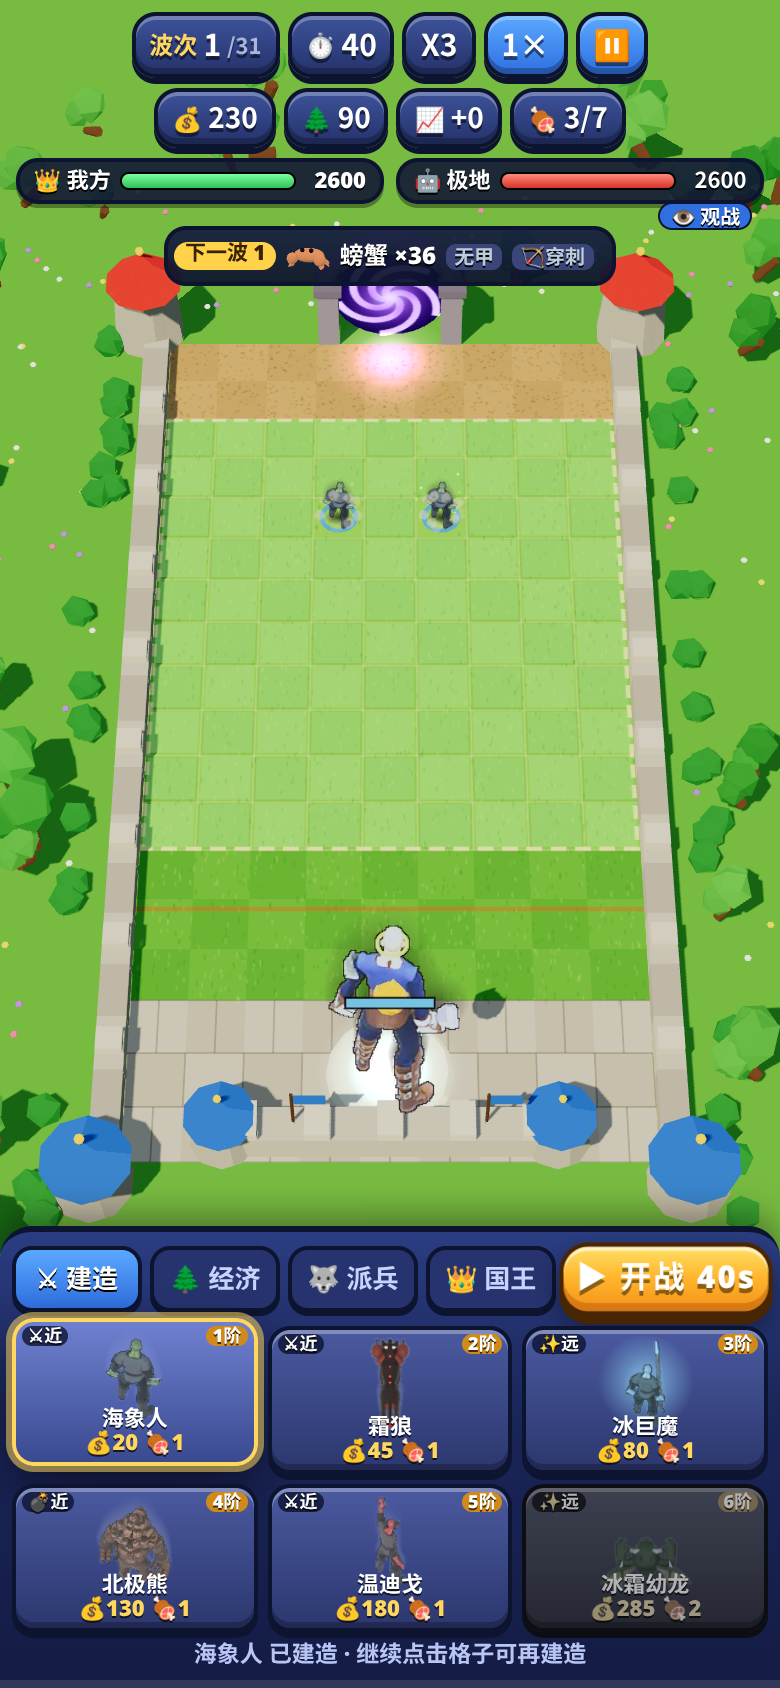
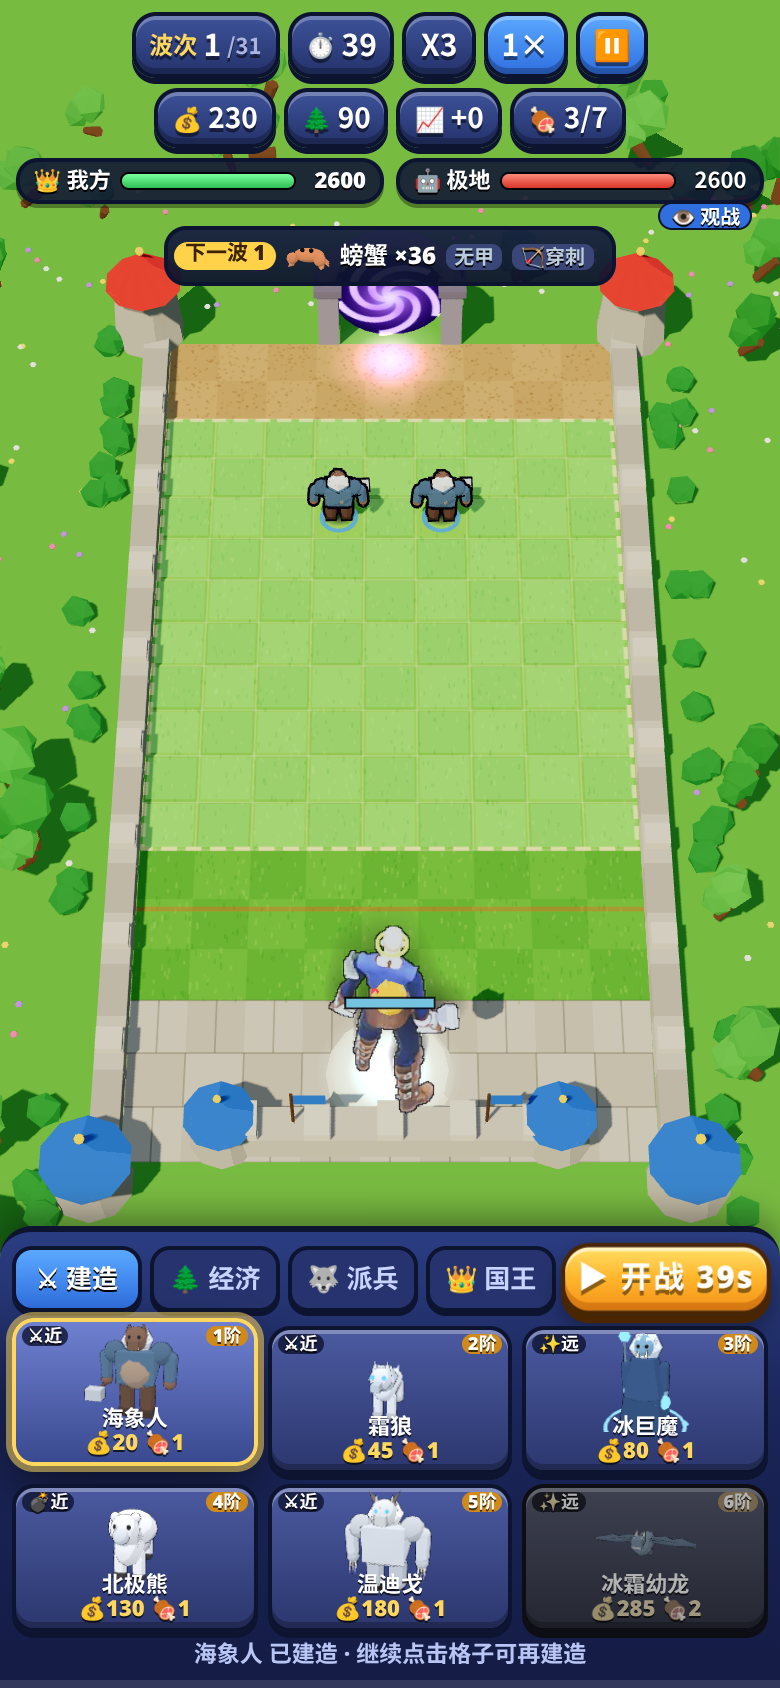
Model remake: Arctic (Tuskarr, frost wolf, pandaren, ice trolls, polar bear, magnataur, wendigos, frost dragons); smaller flyers

diff --git a/toonrecipes.js b/toonrecipes.js
@@ -28,8 +28,8 @@ R('h046',{k:0.95,h:0.95,bw:1.3,torso:'rock',head:'rock',headC:0x7a5a3a,eye:0xffb
 R('h047',{k:1.25,h:1.15,bw:1.6,torso:'rock',head:'rock',headC:0x7a7a84,eye:0x6affd0,legs:'human',arms:'rock',torsoC:0x8a8a94,legC:0x5a5a62,armC:0x7a7a84,bootC:0x4a4a52,glow:0x6affd0,atk:'slam',extras:['chest:0x6affd0','spikes:0x6affd0']});
 R('h048',{k:1.0,h:1,torso:'robe',head:'human',helm:'hood',hoodC:0x2a5ab0,legs:'human',arms:'human',torsoC:0x3a6ad8,skin:0xe8b88a,weapon:'staff',off:'orb',glow:0x6ad8ff,atk:'cast',extras:['tabard:0xd8c070']});
 R('h049',{k:1.18,h:1.1,torso:'robe',head:'human',helm:'wizard',capC:0x7a5ad8,legs:'none',floatY:0.48,lowC:0xc8c0ff,lowM:'w',arms:'human',torsoC:0xd8ccff,skin:0xffe8c8,accent:0xffd04a,weapon:'staff',off:'orb',glow:0xfff0a0,atk:'cast',extras:['beard:0xf8f8f8','tabard:0xffd04a','aura:0xfff0a0','orbit:0xffe08a']});
-R('h04A',{k:1.15,plan:'flyer',skin:0x3a2a5a,skin2:0x6a4a9a,wingC:0x2a1a40,eye:0xd06aff,crest:0xb06aff,crestM:'e',neckLen:0.8,tailLen:0.55,wingSpan:1.15,alt:0.35,atk:'bite',extras:['rings:0xb06aff']});
-R('h04B',{k:1.3,plan:'flyer',headType:'bird',skin:0xff7a2a,skin2:0xffd04a,headC:0xffa02a,wing:'bird',wingC:0xff5a1a,wingM:'e',eye:0xfff8c0,beak:0xffe080,crest:0xffe04a,crestM:'e',neckLen:0.5,tailLen:0.35,tailFan:0xffb02a,fanM:'e',wingSpan:1.3,alt:0.35,atk:'dive',trail:0xff8a2a});
+R('h04A',{k:1.0,plan:'flyer',skin:0x3a2a5a,skin2:0x6a4a9a,wingC:0x2a1a40,eye:0xd06aff,crest:0xb06aff,crestM:'e',neckLen:0.8,tailLen:0.55,wingSpan:1.15,alt:0.35,atk:'bite',extras:['rings:0xb06aff']});
+R('h04B',{k:1.1,plan:'flyer',headType:'bird',skin:0xff7a2a,skin2:0xffd04a,headC:0xffa02a,wing:'bird',wingC:0xff5a1a,wingM:'e',eye:0xfff8c0,beak:0xffe080,crest:0xffe04a,crestM:'e',neckLen:0.5,tailLen:0.35,tailFan:0xffb02a,fanM:'e',wingSpan:1.3,alt:0.35,atk:'dive',trail:0xff8a2a});
 // ===================== 幽魂 Ghost：半透明的灵体 =====================
 const GH=0x9ad8e8;
 R('h05N',{k:0.92,ghost:true,h:1,legs:'none',floatY:0.42,torso:'robe',head:'hood',hoodC:0x7ab8d0,arms:'human',torsoC:0xa8e0f0,lowC:0x8ac8e0,skin:0xd8f8ff,eye:0x6affff,weapon:'glowfist',glow:0x8affff,atk:'cast',extras:['wisps:0xbaffff']});
@@ -42,7 +42,20 @@ R('h05R',{k:1.0,ghost:true,h:1,bw:1.2,legs:'none',floatY:0.5,torso:'brute',head:
 R('h05U',{k:1.2,ghost:true,h:1.12,bw:1.35,legs:'none',floatY:0.52,torso:'brute',head:'orb',helm:'horns',hornC:0xffa08a,arms:'claw',torsoC:0xc8304a,lowC:0x8a1a3a,skin:0xff5a6a,eye:0xffe08a,atk:'cast',extras:['rings:0xff6a4a','chest:0xffd08a','spikes:0xff8a6a']});
 R('h05V',{k:1.05,ghost:true,h:1.05,bw:1.15,legs:'human',torso:'human',head:'skull',headC:0xc8e8d8,helm:'helm',metal:0x8aa8a0,arms:'human',torsoC:0x6a8a80,legC:0x4a6a62,skin:0xb8d8c8,eye:0x6affa0,weapon:'axe',wMetal:0xa8c8c0,pads:true,padC:0x8aa8a0,atk:'swing',extras:['bones','chains']});
 R('h05W',{k:1.25,ghost:true,h:1.15,bw:1.3,legs:'human',torso:'brute',head:'skull',headC:0xb0f0e0,helm:'horns',hornC:0x2a6a5a,arms:'human',torsoC:0x2a8a7a,legC:0x1a6a5a,skin:0x8ae0d0,eye:0x8affe0,weapon:'trident',wMetal:0x9af0e0,pads:true,padC:0x3aa898,spikes:true,atk:'thrust',extras:['crest:0x8affe0','bones']});
-R('h05X',{k:1.05,ghost:true,plan:'flyer',skin:0x6ab8d0,skin2:0xa8e8f8,wingC:0x5aa8c8,eye:0xc8ffff,neckLen:0.5,tailLen:0.5,wingSpan:1.1,alt:0.3,rider:0x5a8aa8,atk:'dive'});
-R('h05Y',{k:1.25,ghost:true,plan:'flyer',skin:0x5a9a8a,skin2:0x9ad8c0,wingC:0x3a7a6a,eye:0xd0ff8a,crest:0xd8f0e0,neckLen:0.6,tailLen:0.6,wingSpan:1.3,alt:0.3,rider:0x3a5a52,atk:'dive',extras:['spikes:0xe8f8f0']});
+R('h05X',{k:0.85,ghost:true,plan:'flyer',skin:0x6ab8d0,skin2:0xa8e8f8,wingC:0x5aa8c8,eye:0xc8ffff,neckLen:0.5,tailLen:0.5,wingSpan:0.95,alt:0.3,rider:0x5a8aa8,atk:'dive'});
+R('h05Y',{k:1.0,ghost:true,plan:'flyer',skin:0x5a9a8a,skin2:0x9ad8c0,wingC:0x3a7a6a,eye:0xd0ff8a,crest:0xd8f0e0,neckLen:0.6,tailLen:0.6,wingSpan:1.1,alt:0.3,rider:0x3a5a52,atk:'dive',extras:['spikes:0xe8f8f0']});
 R('h05Z',{k:1.1,ghost:true,h:1.08,legs:'none',floatY:0.44,torso:'robe',head:'hood',hoodC:0x2a2a4a,arms:'human',torsoC:0x3a3a6a,lowC:0x22224a,skin:0x8a8ab8,eye:0xb06aff,weapon:'staff',off:'book',bookC:0x3a1a4a,glow:0xb06aff,wood:0x3a2a4a,atk:'cast',extras:['halo:0xb06aff','wisps:0xc08aff']});
 R('h060',{k:1.35,ghost:true,h:1.2,bw:1.4,legs:'hoof',torso:'brute',head:'beast',headC:0x9ae0ff,helm:'horns',hornC:0xe0f8ff,arms:'human',torsoC:0x7ac8f0,legC:0x5aa8d8,skin:0x9ad8ff,eye:0xffffff,weapon:'staff',glow:0xe0ffff,wood:0x6aa8c8,atk:'cast',extras:['aura:0xc0f0ff','orbit:0xe0ffff','mane:0xc8f0ff']});
+// ===================== 极地 Arctic：海象人、冰巨魔、霜狼、温迪戈、蓝龙 =====================
+R('h0BC',{k:1.05,h:0.95,bw:1.3,torso:'brute',head:'beast',headC:0x8a6a5a,skin:0x8a6a5a,torsoC:0x5a7a9a,legC:0x6a5040,sleeve:0x5a7a9a,handC:0x8a6a5a,bootC:0x4a3a30,eye:0x2a2a2a,weapon:'hammer',wood:0x6a5040,atk:'slam',extras:['tusks','belly:0xb09a88','mane:0xe8eef8']});
+R('h0BD',{k:1.1,h:0.98,bw:1.25,torso:'brute',head:'beast',headC:0x7a5a4a,skin:0x7a5a4a,torsoC:0x4a6a8a,legC:0x5a4030,sleeve:0x4a6a8a,handC:0x7a5a4a,bootC:0x3a2a20,eye:0x2a2a2a,weapon:'spear',wMetal:0xbaf0ff,glow:0x9ae8ff,atk:'thrust',extras:['tusks','belly:0xa08a78','mane:0xe8eef8','quiver:0x6a5040']});
+R('h0BE',{k:0.95,plan:'quad',skin:0xe8eef8,skin2:0xc8d4e0,headType:'wolf',eye:0x6ad8ff,mane:true,maneC:0xd0dce8,legLen:0.28,bodyLen:0.6,tailLen:0.35,tailW:1.6,claws:true,atk:'bite',extras:['aura:0x9ae8ff']});
+R('h0BG',{k:1.05,h:1.0,bw:1.4,torso:'brute',head:'beast',headC:0xf0f0f0,skin:0xf0f0f0,torsoC:0x2a2a2a,legC:0x2a2a2a,sleeve:0x2a2a2a,handC:0x2a2a2a,bootC:0x1a1a1a,eye:0x2a2a2a,weapon:'staff',wood:0x8a5a2a,glow:0x9ae8ff,atk:'slam',extras:['belly:0xf4f4f4','tabard:0xc83a2a']});
+R('h0BH',{k:1.0,h:1.05,torso:'robe',head:'default',skin:0x8ab8d8,torsoC:0x3a5a8a,legC:0x2a4a6a,hair:0xe8f4ff,eye:0xff4a4a,weapon:'staff',off:'orb',wood:0x6a8aa8,glow:0x9af0ff,atk:'cast',extras:['tusks','mane:0xe8f4ff','aura:0x9ae8ff']});
+R('h0BI',{k:1.12,h:1.1,torso:'robe',head:'default',helm:'horns',hornC:0xe8e0d0,skin:0x7aa8d0,torsoC:0x5a3a7a,legC:0x3a2a5a,eye:0x6affff,weapon:'staff',off:'orb',wood:0xd8d0c0,glow:0x6affff,atk:'cast',extras:['tusks','bones','mane:0xe8f4ff','orbit:0x9af0ff','aura:0x6ad8ff']});
+R('h0BJ',{k:1.1,plan:'quad',skin:0xf4f6fa,skin2:0xe0e6ee,headType:'bear',eye:0x2a2a2a,pawC:0x3a3a3a,legLen:0.3,bodyLen:0.72,bodyH:0.34,bw:1.25,tailLen:0.08,claws:true,hump:true,atk:'claw',extras:['aura:0xbaf0ff']});
+R('h0BK',{k:1.18,plan:'quad',skin:0x4a6aa8,skin2:0x3a5a90,headType:'boar',eye:0xffe04a,legLen:0.34,bodyLen:0.72,bodyH:0.36,bw:1.3,tusks:true,hump:true,mane:true,maneC:0xe8eef8,tailLen:0.12,rider:0x4a6aa8,riderSkin:0x5a7ab8,atk:'slam',extras:['aura:0x9ae8ff']});
+R('h0BM',{k:1.05,h:1.05,bw:1.3,torso:'brute',head:'beast',headC:0xe8ecf0,helm:'horns',hornC:0x8a7a6a,skin:0xe8ecf0,torsoC:0xdce2ea,legC:0xc8d0da,sleeve:0xdce2ea,handC:0xc8d0da,legs:'hoof',arms:'claw',eye:0x6ad8ff,weapon:'claws',off:'claws',atk:'claw',extras:['mane:0xffffff','tail:0xdce2ea']});
+R('h0BL',{k:1.25,h:1.15,bw:1.45,torso:'brute',head:'beast',headC:0xc8d8e8,helm:'horns',hornC:0x5a4a3a,skin:0xc8d8e8,torsoC:0xb0c4d8,legC:0x9ab0c8,sleeve:0xb0c4d8,handC:0x9ab0c8,legs:'hoof',arms:'claw',eye:0x9affff,weapon:'staff',wood:0x6a5a4a,glow:0x9affff,pads:true,padC:0x6a5a4a,spikes:true,atk:'cast',extras:['mane:0xffffff','tail:0xb0c4d8','bones','aura:0x9ae8ff','orbit:0xc8f8ff']});
+R('h0BO',{k:0.82,plan:'flyer',skin:0x5a9ae0,skin2:0xc8e8ff,wingC:0x3a7ac8,eye:0xe0ffff,neckLen:0.6,tailLen:0.4,wingSpan:0.9,alt:0.4,atk:'bite'});
+R('h0BP',{k:1.08,plan:'flyer',skin:0x2a6ad0,skin2:0xbae4ff,wingC:0x1a4aa8,eye:0xe0ffff,crest:0xbaf0ff,crestM:'e',neckLen:0.8,tailLen:0.55,wingSpan:1.15,alt:0.38,atk:'bite',extras:['spikes:0xe0f8ff','rings:0x9ae8ff'],trail:0x9ae8ff});

diff --git a/index.html b/index.html
@@ -10,9 +10,9 @@
 <link rel="manifest" href="manifest.webmanifest">
 <link rel="icon" type="image/png" href="icons/favicon-32.png">
 <link rel="apple-touch-icon" href="icons/apple-touch-icon.png">
-<link rel="stylesheet" href="style.css?v=4">
-<link rel="stylesheet" href="td.css?v=4">
-<link rel="stylesheet" href="lt.css?v=4">
+<link rel="stylesheet" href="style.css?v=5">
+<link rel="stylesheet" href="td.css?v=5">
+<link rel="stylesheet" href="lt.css?v=5">
 </head>
 <body class="td lt">
 <canvas id="cv"></canvas>
@@ -75,8 +75,8 @@
 </div>
 <div id="showTitle" class="hidden"></div>
 <script src="audio.js?v=1"></script>
-<script src="lt_core.js?v=4"></script>
+<script src="lt_core.js?v=5"></script>
 <script type="importmap">{"imports":{"three":"./lib/three.module.min.js","three/addons/":"./lib/addons/"}}</script>
-<script type="module" src="lt.js?v=4"></script>
+<script type="module" src="lt.js?v=5"></script>
 </body>
 </html>

diff --git a/lt.js b/lt.js
@@ -3,8 +3,8 @@ import * as THREE from 'three';
 import {SPR_UNITS,SPR_K,SPR_V} from './sprdata.js';
 import {MODELS,modelOf} from './models.js';
 import {ABZ as ABZ_} from './abil_zh.js';
-import {initTK,buildTK,animTK} from './toonkit.js?v=4';
-import {TKR} from './toonrecipes.js?v=4';
+import {initTK,buildTK,animTK} from './toonkit.js?v=5';
+import {TKR} from './toonrecipes.js?v=5';
 const LT=window.LT,S=SFX.S,$=id=>document.getElementById(id);
 const Q=location.search;const DEBUG=/[?&]debug/.test(Q);const SHOWCASE=(Q.match(/[?&]showcase=([^&]+)/)||[])[1];
 const W=LT.W,H=LT.H,W2=W/2,H2=H/2;const B=LT.BUILD;

diff --git a/data/model_audit.md b/data/model_audit.md
@@ -31,7 +31,7 @@
 | Demi-Human 亚人 | 13 | 1.69 | 1 | 0 |
 | Hybrid 混血 | 6 | 1.00 | 0 | 0 |
 | Marine 海洋 | 14 | 1.43 | 0 | 0 |
-| Arctic 极地 | 12 | 2.00 | 2 | 0 |
+| Arctic 极地 | 12 | 2.00 | 2 | 12 |
 | Elf 精灵 | 13 | 1.85 | 2 | 0 |
 | Goblin 地精 | 13 | 1.15 | 0 | 0 |
 | Paladin 圣骑士 | 12 | 1.25 | 0 | 0 |
@@ -96,18 +96,18 @@
 
 | id | 兵种 | WC3 模型 | 旧资源 | 旧资源符合度 | 处理 |
 |---|---|---|---|---|---|
-| h0BC | Tuskarr 海象人 | tuskar | 精灵 orc | ⚠ 部分不符 | ToonKit 程序化重做（按 WC3 轮廓/配色） |
-| h0BD | Tuskarr Spearman 海象人投矛手 | tuskarRanged | 精灵 orc | ⚠ 部分不符 | ToonKit 程序化重做（按 WC3 轮廓/配色） |
-| h0BE | Frost Wolf 霜狼 | WhiteWolf | 精灵 cerberus | ⚠ 部分不符 | ToonKit 程序化重做（按 WC3 轮廓/配色） |
-| h0BG | Pandaren 熊猫人 | FurbolgPanda | 精灵 behemoth | ⚠ 部分不符 | ToonKit 程序化重做（按 WC3 轮廓/配色） |
-| h0BH | Ice Troll 冰巨魔 | IceTrollShadowPriest | 精灵 troglodyte | ⚠ 部分不符 | ToonKit 程序化重做（按 WC3 轮廓/配色） |
-| h0BI | Ice Troll Shaman 冰巨魔萨满 | WitchDoctor | 精灵 troglodyte | ⚠ 部分不符 | ToonKit 程序化重做（按 WC3 轮廓/配色） |
-| h0BJ | Polar Bear 北极熊 | PolarBear | 精灵 behemoth | ⚠ 部分不符 | ToonKit 程序化重做（按 WC3 轮廓/配色） |
-| h0BK | Magnataur 猛犸人 | MagnataurBlue | 精灵 behemoth | ⚠ 部分不符 | ToonKit 程序化重做（按 WC3 轮廓/配色） |
-| h0BM | Wandigoo 温迪戈 | Wendigo | 精灵 gog | ❌ 严重不符 | ToonKit 程序化重做（按 WC3 轮廓/配色） |
-| h0BL | Ancient Wandigoo 远古温迪戈 | WendigoShaman | 精灵 gog | ❌ 严重不符 | ToonKit 程序化重做（按 WC3 轮廓/配色） |
-| h0BO | Young Frost Dragon 冰霜幼龙 | AzureDragonWelp | 精灵 greenDragon | ✅ 基本相符 | 保留，后续统一换 ToonKit 时顺带做 |
-| h0BP | Azure Dragon 蓝龙 | AzureDragon | 精灵 greenDragon | ✅ 基本相符 | 保留，后续统一换 ToonKit 时顺带做 |
+| h0BC | Tuskarr 海象人 | tuskar | 精灵 orc | ⚠ 部分不符 | **已重做**：ToonKit 程序化卡通模型（humanoid） |
+| h0BD | Tuskarr Spearman 海象人投矛手 | tuskarRanged | 精灵 orc | ⚠ 部分不符 | **已重做**：ToonKit 程序化卡通模型（humanoid） |
+| h0BE | Frost Wolf 霜狼 | WhiteWolf | 精灵 cerberus | ⚠ 部分不符 | **已重做**：ToonKit 程序化卡通模型（quad） |
+| h0BG | Pandaren 熊猫人 | FurbolgPanda | 精灵 behemoth | ⚠ 部分不符 | **已重做**：ToonKit 程序化卡通模型（humanoid） |
+| h0BH | Ice Troll 冰巨魔 | IceTrollShadowPriest | 精灵 troglodyte | ⚠ 部分不符 | **已重做**：ToonKit 程序化卡通模型（humanoid） |
+| h0BI | Ice Troll Shaman 冰巨魔萨满 | WitchDoctor | 精灵 troglodyte | ⚠ 部分不符 | **已重做**：ToonKit 程序化卡通模型（humanoid） |
+| h0BJ | Polar Bear 北极熊 | PolarBear | 精灵 behemoth | ⚠ 部分不符 | **已重做**：ToonKit 程序化卡通模型（quad） |
+| h0BK | Magnataur 猛犸人 | MagnataurBlue | 精灵 behemoth | ⚠ 部分不符 | **已重做**：ToonKit 程序化卡通模型（quad） |
+| h0BM | Wandigoo 温迪戈 | Wendigo | 精灵 gog | ❌ 严重不符 | **已重做**：ToonKit 程序化卡通模型（humanoid） |
+| h0BL | Ancient Wandigoo 远古温迪戈 | WendigoShaman | 精灵 gog | ❌ 严重不符 | **已重做**：ToonKit 程序化卡通模型（humanoid） |
+| h0BO | Young Frost Dragon 冰霜幼龙 | AzureDragonWelp | 精灵 greenDragon | ✅ 基本相符 | **已重做**：ToonKit 程序化卡通模型（flyer） |
+| h0BP | Azure Dragon 蓝龙 | AzureDragon | 精灵 greenDragon | ✅ 基本相符 | **已重做**：ToonKit 程序化卡通模型（flyer） |
 
 ## Elf 精灵
 
